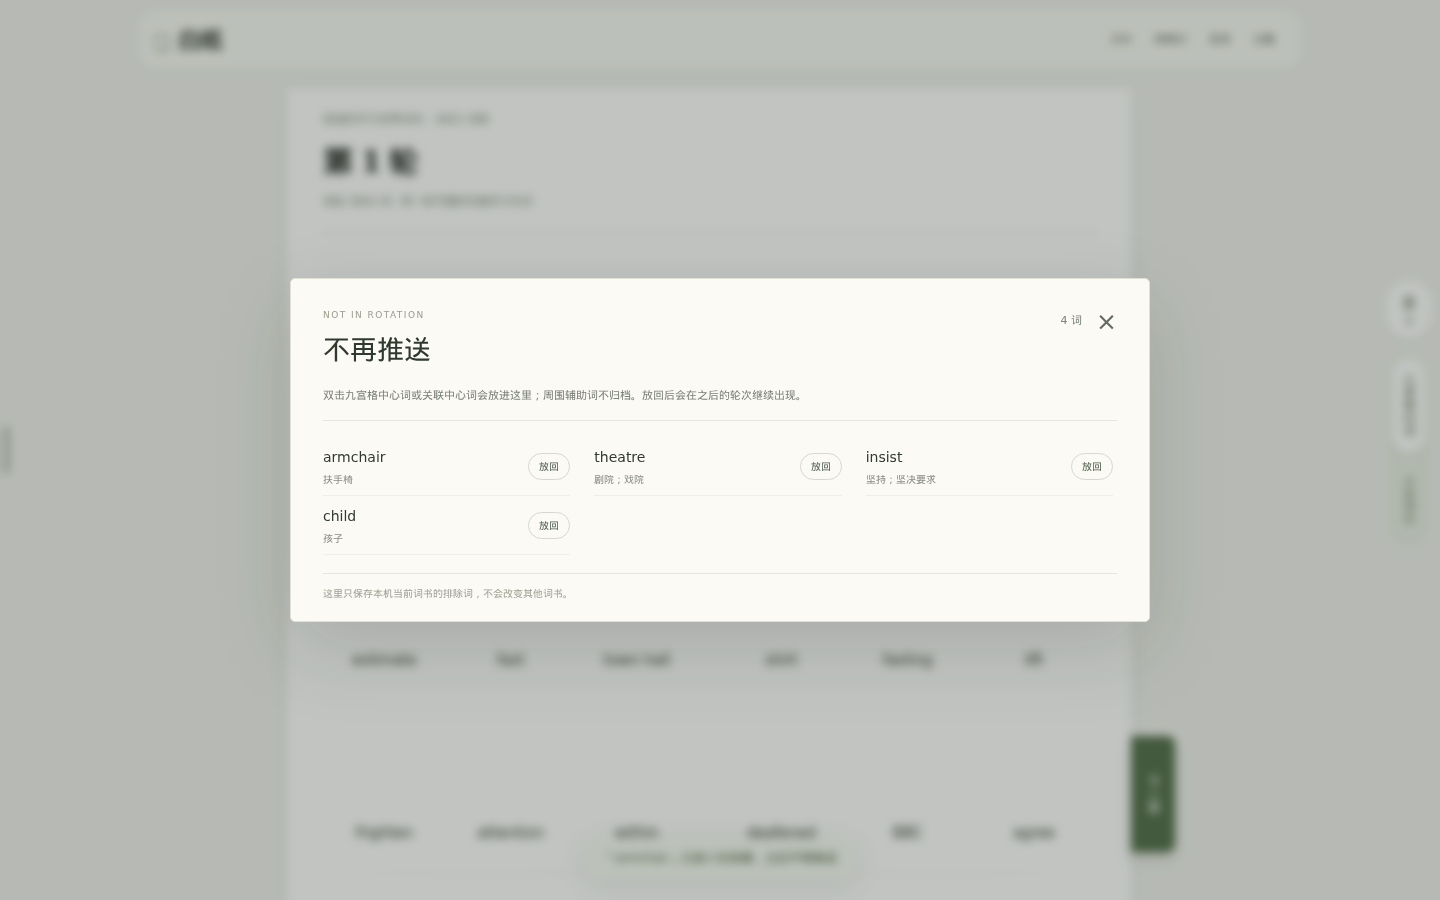
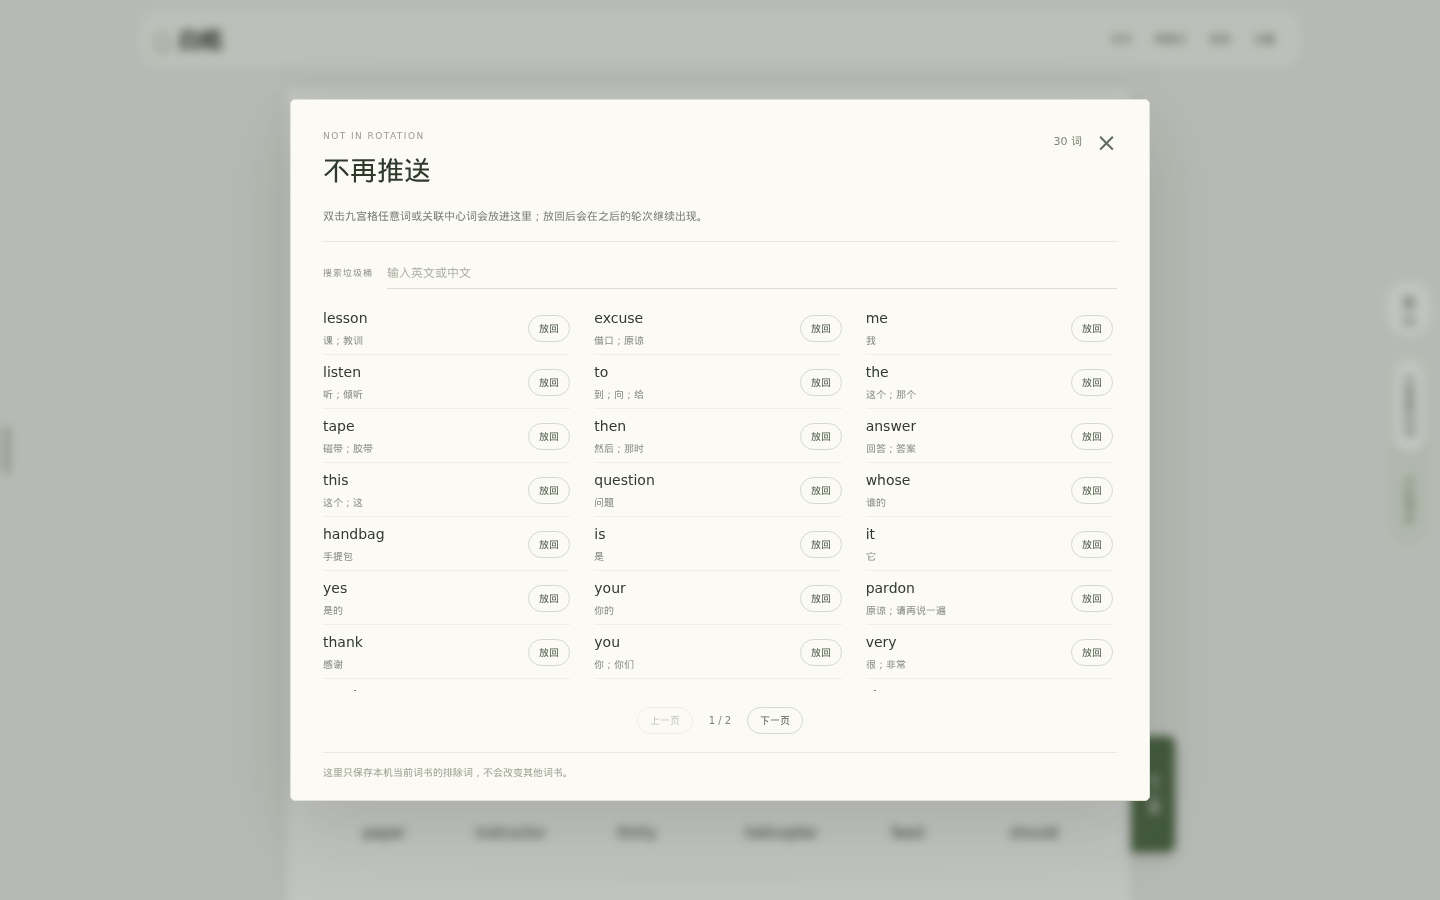
feat: add trash search, paging, and faster double click

diff --git a/src/modules/vocabulary/components/vocabulary-screen.tsx b/src/modules/vocabulary/components/vocabulary-screen.tsx
@@ -66,7 +66,7 @@ function useTrashClick(
     timer.current = window.setTimeout(() => {
       timer.current = null
       onClick(event)
-    }, 240)
+    }, 150)
   }
 }
 
@@ -77,6 +77,7 @@ function hasTextSelection() {
 }
 
 const STORAGE_KEY = 'whitepaper-vocabulary-v2'
+const TRASH_PAGE_SIZE = 24
 
 type ModalName = 'import' | 'settings' | 'history' | null
 type WordbookId = 'parallel-world' | 'starter'
@@ -124,6 +125,8 @@ export function VocabularyScreen() {
   const [undoSession, setUndoSession] = useState<VocabularySession | null>(null)
   const [modal, setModal] = useState<ModalName>(null)
   const [trashOpen, setTrashOpen] = useState(false)
+  const [trashQuery, setTrashQuery] = useState('')
+  const [trashPage, setTrashPage] = useState(0)
   const [authOpen, setAuthOpen] = useState(false)
   const [settingsOpen, setSettingsOpen] = useState(false)
   const [soundOn, setSoundOn] = useState(true)
@@ -257,6 +260,26 @@ export function VocabularyScreen() {
   const session = hydrated ? state.sessions[today] : createSession(state.words, state.settings, state.trashedIds)
   const currentWords = pageWords(state.words, session)
   const trashedWords = state.words.filter((word) => state.trashedIds.includes(word.id))
+  const normalizedTrashQuery = trashQuery.trim().toLowerCase()
+  const filteredTrashedWords = normalizedTrashQuery
+    ? trashedWords.filter(
+        (word) =>
+          word.en.toLowerCase().includes(normalizedTrashQuery) ||
+          word.zh.toLowerCase().includes(normalizedTrashQuery),
+      )
+    : trashedWords
+  const trashPageCount = Math.max(1, Math.ceil(filteredTrashedWords.length / TRASH_PAGE_SIZE))
+  const safeTrashPage = Math.min(trashPage, trashPageCount - 1)
+  const visibleTrashedWords = filteredTrashedWords.slice(
+    safeTrashPage * TRASH_PAGE_SIZE,
+    safeTrashPage * TRASH_PAGE_SIZE + TRASH_PAGE_SIZE,
+  )
+  useEffect(() => {
+    setTrashPage(0)
+  }, [trashQuery])
+  useEffect(() => {
+    setTrashPage((page) => Math.min(page, trashPageCount - 1))
+  }, [trashPageCount])
   useEffect(() => {
     prefetchSpeech(
       pageWords(state.words, session).map((word) => ({ text: word.en, audio: word.audio })),
@@ -336,12 +359,7 @@ export function VocabularyScreen() {
     updateSession((current) => toggleMark(current, id, mark))
   }
 
-  function handleMark(id: string, mark: Judgement) {
-    updateSession((current) => {
-      const marks = { ...current.marks, [id]: mark }
-      return { ...current, marks }
-    })
-  }
+
 
   function handleTrash(id: string) {
     const word = state.words.find((item) => item.id === id)
@@ -754,8 +772,7 @@ export function VocabularyScreen() {
                       onWordClick={handleWordClick}
                       onSpeak={speakText}
                       onPrefetch={(text, audio) => prefetchSpeech([{ text, audio }])}
-                      onMark={handleMark}
-                      onFocus={(id) => focusWord(id, session, state, commit, today)}
+                                  onFocus={(id) => focusWord(id, session, state, commit, today)}
                       onTrash={handleTrash}
                     />
                   )}
@@ -853,7 +870,11 @@ export function VocabularyScreen() {
                 <h2 className={styles.trashTitle}>不再推送</h2>
               </div>
               <div className={styles.trashDialogActions}>
-                <span className={styles.trashCount}>{trashedWords.length} 词</span>
+                <span className={styles.trashCount}>
+                  {normalizedTrashQuery
+                    ? `${filteredTrashedWords.length} / ${trashedWords.length} 词`
+                    : `${trashedWords.length} 词`}
+                </span>
                 <button
                   className={styles.trashClose}
                   type="button"
@@ -865,22 +886,60 @@ export function VocabularyScreen() {
               </div>
             </div>
             <p className={styles.trashHint}>
-              双击九宫格中心词或关联中心词会放进这里；周围辅助词不归档。放回后会在之后的轮次继续出现。
+              双击九宫格任意词或关联中心词会放进这里；放回后会在之后的轮次继续出现。
             </p>
+            <div className={styles.trashSearch}>
+              <label htmlFor="trash-search">搜索垃圾桶</label>
+              <input
+                id="trash-search"
+                type="search"
+                value={trashQuery}
+                placeholder="输入英文或中文"
+                autoComplete="off"
+                onChange={(event) => setTrashQuery(event.target.value)}
+              />
+            </div>
             {trashedWords.length ? (
-              <div className={styles.trashGrid}>
-                {trashedWords.map((word) => (
-                  <article className={styles.trashCard} key={word.id}>
-                    <div className={styles.trashCardText}>
-                      <strong>{word.en}</strong>
-                      <small>{word.zh || '暂无释义'}</small>
+              filteredTrashedWords.length ? (
+                <>
+                  <div className={styles.trashGrid}>
+                    {visibleTrashedWords.map((word) => (
+                      <article className={styles.trashCard} key={word.id}>
+                        <div className={styles.trashCardText}>
+                          <strong>{word.en}</strong>
+                          <small>{word.zh || '暂无释义'}</small>
+                        </div>
+                        <button type="button" onClick={() => restoreTrash(word.id)}>
+                          放回
+                        </button>
+                      </article>
+                    ))}
+                  </div>
+                  {filteredTrashedWords.length > TRASH_PAGE_SIZE && (
+                    <div className={styles.trashPager}>
+                      <button
+                        type="button"
+                        disabled={safeTrashPage === 0}
+                        onClick={() => setTrashPage((page) => Math.max(0, page - 1))}
+                      >
+                        上一页
+                      </button>
+                      <span>
+                        {safeTrashPage + 1} / {trashPageCount}
+                      </span>
+                      <button
+                        type="button"
+                        disabled={safeTrashPage >= trashPageCount - 1}
+                        onClick={() => setTrashPage((page) => page + 1)}
+                      >
+                        下一页
+                      </button>
                     </div>
-                    <button type="button" onClick={() => restoreTrash(word.id)}>
-                      放回
-                    </button>
-                  </article>
-                ))}
-              </div>
+                  )}
+                </>
+              ) : (
+                <p className={styles.trashEmpty}>没有匹配的词。</p>
+              )
             ) : (
               <p className={styles.trashEmpty}>垃圾桶是空的。</p>
             )}
@@ -1238,7 +1297,7 @@ function ScanGrid({
               word={word}
               session={session}
               onWordClick={onWordClick}
-              onTrash={wordIndex === 4 ? onTrash : undefined}
+              onTrash={onTrash}
               style={
                 variant === 'zen'
                   ? {
@@ -1291,7 +1350,6 @@ function AssociationView({
   onWordClick,
   onSpeak,
   onPrefetch,
-  onMark,
   onFocus,
   onTrash,
 }: {
@@ -1302,7 +1360,6 @@ function AssociationView({
   onWordClick: (id: string, reverse: boolean) => void
   onSpeak: (text: string, audio?: string) => void
   onPrefetch: (text: string, audio?: string) => void
-  onMark: (id: string, mark: Judgement) => void
   onFocus: (id: string) => void
   onTrash: (id: string) => void
 }) {
@@ -1448,27 +1505,8 @@ function AssociationView({
             </p>
           </div>
         )}
-        <p className={styles.assocHelp}>
-          关联辅助只聚焦一个词，保证句子清晰。点「下一词」后仅提交当前词；切回九宫格仍接着同一轮继续。
-        </p>
-        <div className={styles.assocActionRow}>
-          <button
-            className={`${styles.actionKnown} ${mark === 'known' ? styles.active : ''}`}
-            type="button"
-            onClick={() => onMark(word.id, 'known')}
-          >
-            ✓ 会了
-          </button>
-          <button
-            className={`${styles.actionUnknown} ${mark === 'unknown' ? styles.active : ''}`}
-            type="button"
-            onClick={() => onMark(word.id, 'unknown')}
-          >
-            × 不会 · 显示中文
-          </button>
         </div>
       </div>
-    </div>
   )
 }
 

diff --git a/tests/e2e/trash.spec.ts b/tests/e2e/trash.spec.ts
@@ -15,12 +15,9 @@ test('[AC-ACCOUNT-020] 双击归档、共享垃圾桶和放回', async ({ page }
   const cells = page.locator('button[class*=word]')
   const badge = page.getByRole('button', { name: '打开垃圾桶' })
 
-  await cells.nth(0).dblclick()
-  await expect(badge).toContainText('0')
-
-  const center = cells.nth(4)
-  const word = await center.locator('span').last().innerText()
-  await center.dblclick()
+  const first = cells.first()
+  const word = await first.locator('span').last().innerText()
+  await first.dblclick()
   await expect(badge).toContainText('1')
 
   await badge.click()
@@ -40,4 +37,23 @@ test('[AC-ACCOUNT-020] 关联辅助只归档中心词，外围句子不归档', 
 
   await page.locator('button[class*=centerChip]').dblclick()
   await expect(page.getByRole('button', { name: '打开垃圾桶' })).toContainText('1')
+})
+
+test('[AC-ACCOUNT-020] 垃圾桶搜索和翻页', async ({ page }) => {
+  await fresh(page)
+  await page.evaluate(() => {
+    const key = 'whitepaper-vocabulary-v2'
+    const state = JSON.parse(window.localStorage.getItem(key) as string)
+    state.trashedIds = state.words.slice(0, 30).map((word: { id: string }) => word.id)
+    window.localStorage.setItem(key, JSON.stringify(state))
+  })
+  await page.reload()
+  await page.waitForTimeout(1200)
+  await page.getByRole('button', { name: '打开垃圾桶' }).click()
+  const panel = page.getByRole('dialog', { name: '垃圾桶' })
+  await expect(panel.getByText('1 / 2')).toBeVisible()
+  await panel.getByRole('button', { name: '下一页' }).click()
+  await expect(panel.getByText('2 / 2')).toBeVisible()
+  await panel.getByRole('searchbox', { name: '搜索垃圾桶' }).fill('lesson')
+  await expect(panel).toContainText('lesson')
 })

diff --git a/src/modules/vocabulary/components/vocabulary-screen.module.css b/src/modules/vocabulary/components/vocabulary-screen.module.css
@@ -2788,6 +2788,42 @@
   line-height: 1.8;
 }
 
+.trashSearch {
+  display: flex;
+  align-items: center;
+  gap: 14px;
+  margin: -2px 0 14px;
+}
+
+.trashSearch label {
+  flex: none;
+  color: #95988a;
+  font-size: 9px;
+  letter-spacing: 0.1em;
+  text-transform: uppercase;
+}
+
+.trashSearch input {
+  width: 100%;
+  border: 0;
+  border-bottom: 1px solid #dcded4;
+  border-radius: 0;
+  background: transparent;
+  color: #303a2e;
+  padding: 6px 0;
+  font: inherit;
+  font-size: 12px;
+  outline: none;
+}
+
+.trashSearch input::placeholder {
+  color: #b0b2a5;
+}
+
+.trashSearch input:focus {
+  border-bottom-color: #7e936e;
+}
+
 .trashGrid {
   display: grid;
   grid-template-columns: repeat(3, minmax(0, 1fr));
@@ -2842,6 +2878,37 @@
 }
 
 .trashCard button:hover {
+  border-color: #a9b8a5;
+  color: #2f4a35;
+}
+
+.trashPager {
+  display: flex;
+  align-items: center;
+  justify-content: center;
+  gap: 16px;
+  padding-top: 16px;
+  color: #7c8576;
+  font-size: 10px;
+}
+
+.trashPager button {
+  border: 1px solid #d5d9cf;
+  border-radius: 999px;
+  background: transparent;
+  color: #52604f;
+  padding: 5px 12px;
+  cursor: pointer;
+  font: inherit;
+  font-size: 10px;
+}
+
+.trashPager button:disabled {
+  cursor: default;
+  opacity: 0.35;
+}
+
+.trashPager button:not(:disabled):hover {
   border-color: #a9b8a5;
   color: #2f4a35;
 }

diff --git a/docs/features/vocabulary.md b/docs/features/vocabulary.md
@@ -95,7 +95,7 @@
 - R8（REQ-VOCABULARY-008）：导出包含词条、轮次、当前自评和日期；文案使用“本次自评”而不是“永久记住”。
 - R9（REQ-VOCABULARY-009）：无论用户使用什么屏幕尺寸打开学习页，当前 A4 扫词纸中的全部词条都必须在一个视口内从上到下可见；响应式布局不得通过滚动、拆页、展开或隐藏词条来规避这一约束。
 - R10（REQ-VOCABULARY-010）：用户可以在多本词书之间点选切换；每本词书保留自己的纸张顺序、学习任务、轮次和困难词集合，切换不得覆盖其他词书状态。
-- R12（REQ-ACCOUNT-020）：双击九宫格每组中心词或关联辅助中心词加入当前词书的垃圾桶；九宫格周围 8 个辅助词不可归档；两边共用同一份排除表；被排除的词不再进入当前轮或之后的轮次；单击仍按原语义判定/发音，关联外围句子不归档；垃圾桶可查看并放回。
+- R12（REQ-ACCOUNT-020）：双击九宫格任意词块或关联辅助中心词加入当前词书的垃圾桶；两边共用同一份排除表；被排除的词不再进入当前轮或之后的轮次；单击仍按原语义判定/发音，关联外围句子不归档；垃圾桶可查看并放回。
 - R11（REQ-VOCABULARY-011）：用户可以进入禅模式；禅模式隐藏普通工作台外壳和纸张堆叠，每张纸固定为 36 个词位的 6×6 方格，并明确分成四个 3×3 九宫格；词格和纸张都必须保持由方格决定的正方形比例，不能因网格行高被拉成长条；纸张布局优先填满可用视口面积，在纸张大小接近时再增加同时呈现的纸张数量；窄高度不得通过保留多余列数制造大块上下空白；完整单词或短语不得被界面添加的省略号截断，无法完整容纳时减少同时呈现的纸张数量并增大纸张和词格；纸张按当前视口自适应铺开并以一次性抽纸动效同时呈现；翻页按钮固定在屏幕右下角，Escape 或退出控件可以返回普通工作台。
 
 ## 验收标准
@@ -110,7 +110,7 @@
 - AC-VOCABULARY-008（REQ-VOCABULARY-008）：Given 有词表和判断记录，When 导出 JSON 或 Markdown，Then 文件可读、可重用，并包含本次自评状态和日期。
 - AC-VOCABULARY-009（REQ-VOCABULARY-009）：Given 当前 A4 扫词纸包含一组词条，When 用户在窄屏、平板或桌面屏幕打开学习页，Then 这组词条从纸张顶部到底部全部位于同一个视口内，用户无需滚动、拆页、展开或隐藏词条即可扫完。
 - AC-VOCABULARY-010（REQ-VOCABULARY-010）：Given 用户拥有至少两本词书且各自有学习进度，When 用户点选另一摞词书再返回原词书，Then 当前纸张只显示所选词书的词条，且两本词书的轮次和困难词集合均保持原状。
-- AC-ACCOUNT-020（REQ-ACCOUNT-020）：Given 用户在当前词书看到词条，When 双击九宫格每组中心词或关联辅助中心词，Then 该词进入共享垃圾桶并从当前/之后轮次排除，角标增加；单击仍判定或发音，关联外围句子不归档；When 打开垃圾桶并放回，Then 该词从排除表移除并在之后轮次恢复推送。
+- AC-ACCOUNT-020（REQ-ACCOUNT-020）：Given 用户在当前词书看到词条，When 双击九宫格任意词块或关联辅助中心词，Then 该词进入共享垃圾桶并从当前/之后轮次排除，角标增加；单击仍判定或发音，关联外围句子不归档；When 打开垃圾桶并放回，Then 该词从排除表移除并在之后轮次恢复推送。
 - AC-VOCABULARY-011（REQ-VOCABULARY-011）：Given 用户在词汇工作台打开任意词书，When 用户进入禅模式，Then Top 条和普通纸张堆叠不可见，每张呈现的纸有 36 个词位、四个 3×3 九宫格、正方形词格和不被拉长的纸张比例，单词或短语完整可见且没有界面添加的截断省略号；视口中按可读比例铺满一张或多张纸，纸张以同一批抽出动效出现，窄高度时通过减少列数避免大块上下空白，放不下时减少纸张数量而不压缩或隐藏词条，右下角可见纵向下一页按钮，按 Escape 或退出控件后恢复普通工作台。词库原文自带的标点不因验收而被删除。
 
 ## 释义（2026-11-08 确认，待立 AC）

diff --git a/docs/GOAL.md b/docs/GOAL.md
@@ -44,7 +44,7 @@ flowchart LR
 ## 三、金字塔（文字）
 
 <!-- goal-summary -->
-合计 30 条：已验证 30（验证于 2026-11-09-22-33）
+合计 30 条：已验证 30（验证于 2026-11-09-23-26）
 <!-- /goal-summary -->
 
 - **目标**：让一个人每天在一张纸上完成词汇自评、理解与清零。
@@ -168,9 +168,9 @@ flowchart LR
         - **测试用例**：账号有 2026-11-07 和 2026-11-08 两天的会话与判定，When 请求学习记录 ｜ **状态**：已验证 ｜ [用例](others/test-cases/product.md) · [tests](../tests/api/vocabulary-history.test.ts) · [查看](others/evidence/goal-runs/2026-11-08-21-49.txt)
     - **REQ-ACCOUNT-020 垃圾桶排除不再推送的词**
       - 来源事件：双击九宫格词条或关联辅助中心词 → 打开垃圾桶 → 放回
-      - 规则：双击九宫格每组中心词或关联辅助中心词加入当前词书的垃圾桶；九宫格周围 8 个辅助词不可归档；两边共用同一份排除表；被排除的词不再进入当前轮或之后的轮次；单击仍按原语义判定/发音，关联外围句子不归档；垃圾桶可查看并放回
-      - AC-ACCOUNT-020（REQ-ACCOUNT-020）：Given 用户在当前词书看到词条，When 双击九宫格每组中心词或关联辅助中心词，Then 该词进入共享垃圾桶并从当前/之后轮次排除，角标增加；单击仍判定或发音，关联外围句子不归档；When 打开垃圾桶并放回，Then 该词从排除表移除并在之后轮次恢复推送。
-        - **测试用例**：双击中心词 → 不再推送；双击周围辅助词 → 不归档 ｜ **状态**：已验证 ｜ [用例](others/test-cases/vocabulary.md) · [tests](../tests/e2e/trash.spec.ts) · [查看](others/evidence/AC-ACCOUNT-020/2026-11-10.png)
+      - 规则：双击九宫格任意词块或关联辅助中心词加入当前词书的垃圾桶；两边共用同一份排除表；被排除的词不再进入当前轮或之后的轮次；单击仍按原语义判定/发音，关联外围句子不归档；垃圾桶可查看并放回
+      - AC-ACCOUNT-020（REQ-ACCOUNT-020）：Given 用户在当前词书看到词条，When 双击九宫格任意词块或关联辅助中心词，Then 该词进入共享垃圾桶并从当前/之后轮次排除，角标增加；单击仍判定或发音，关联外围句子不归档；When 打开垃圾桶并放回，Then 该词从排除表移除并在之后轮次恢复推送。
+        - **测试用例**：双击词块 → 不再推送；关联外围句子不归档 ｜ **状态**：已验证 ｜ [用例](others/test-cases/vocabulary.md) · [tests](../tests/e2e/trash.spec.ts) · [查看](others/evidence/AC-ACCOUNT-020/2026-11-10.png)
   - **体验领域**（支撑子域）
     - 事件链：点击 → 发声/反馈 → 切换
     - 聚合：声音、视觉、动效

diff --git a/docs/others/test-cases/vocabulary.md b/docs/others/test-cases/vocabulary.md
@@ -14,7 +14,7 @@
 | AC-VOCABULARY-008 | 导出学习内容                   | 内容可读或可重用，自评语义准确                                                                                                                                                                                                              | 格式边界与浏览器   |
 | AC-VOCABULARY-009 | 在不同屏幕尺寸完整扫完一张纸   | 当前纸张全部词条同屏可见，不滚动、不拆页                                                                                                                                                                                                    | 响应式浏览器与截图 |
 | AC-VOCABULARY-010 | 在多本词书之间切换             | 词书各自保留纸张、轮次和困难词状态                                                                                                                                                                                                          | 浏览器与本地状态   |
-| AC-ACCOUNT-020 | 双击九宫格中心词放入垃圾桶，再打开垃圾桶放回 | 九宫格每组仅中心词可归档，周围 8 个不可归档；与关联中心共用排除表；双击后角标增加、之后轮次不再出现；单击仍判定/发音；外围句子不归档；放回后恢复推送 | 浏览器与本地状态 |
+| AC-ACCOUNT-020 | 双击九宫格任意词放入垃圾桶，再打开垃圾桶放回 | 九宫格任意词可归档，与关联中心共用排除表；双击后角标增加、之后轮次不再出现；单击仍判定/发音；外围句子不归档；放回后恢复推送 | 浏览器与本地状态 |
 | AC-VOCABULARY-011 | 进入禅模式并完成整批翻页       | Top 条和纸摞隐藏，每张纸 36 个词位、四个 3×3 九宫格，词格与纸张比例保持方正，窄高度减少列数填满视口且界面不截断词条；视觉上使用统一 6×6 网格，所有词格横向、纵向间距一致，组间不重叠；已判断词在默认模式与禅模式保持同一状态色和 hover 反馈 | 浏览器与截图       |
 
 当前实现已经覆盖：初始词书完整性、TXT/CSV/JSON 导入、JSON/Markdown 导出、不会词进入下一轮、游客本地优先和刷新恢复；关联材料来源、长期复习及账户服务端持久化仍属于后续阶段。若引入服务端持久化，必须补真实数据库及权限验收，不能用浏览器本地存储测试代替。
